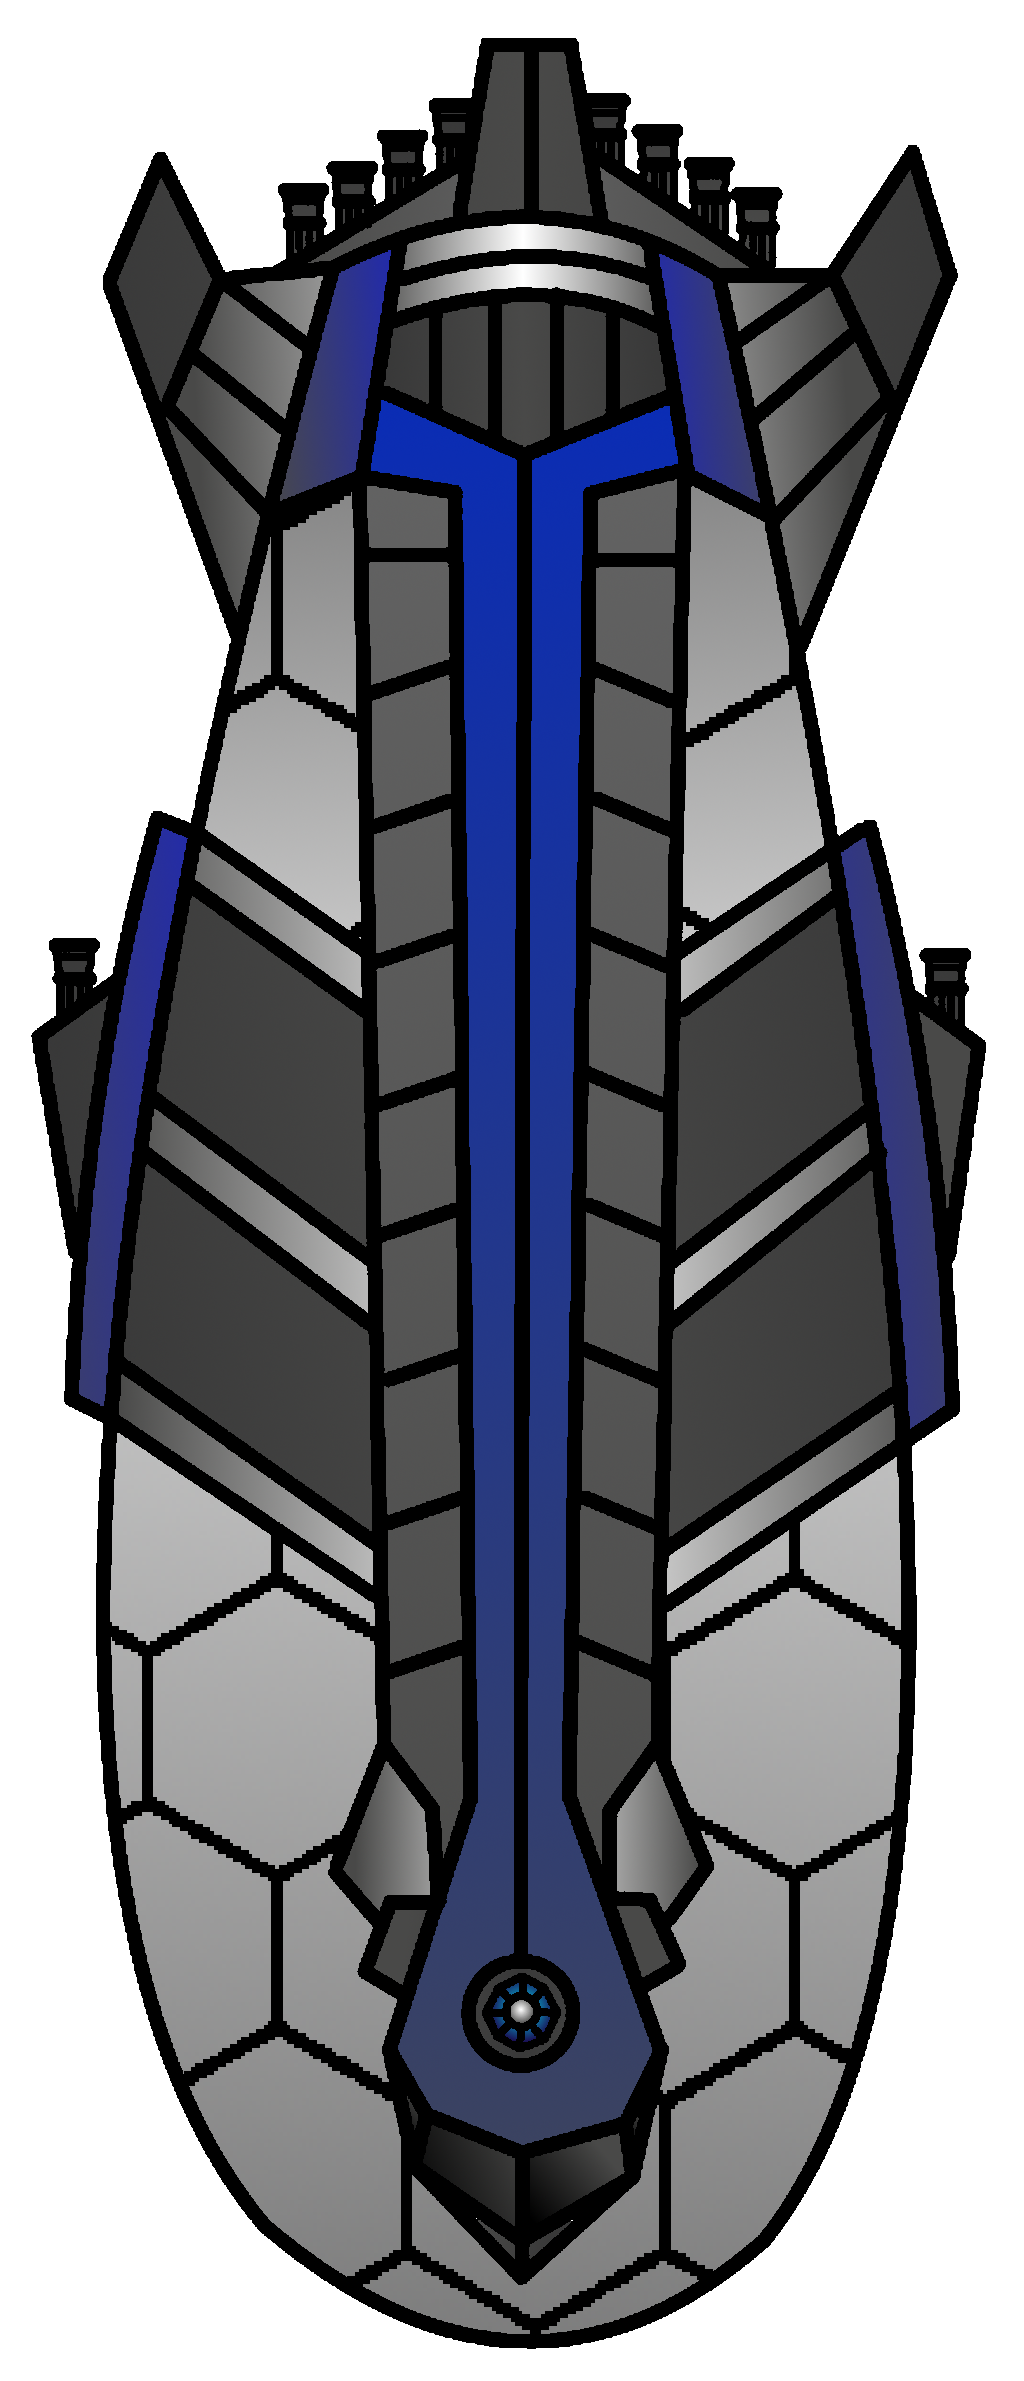
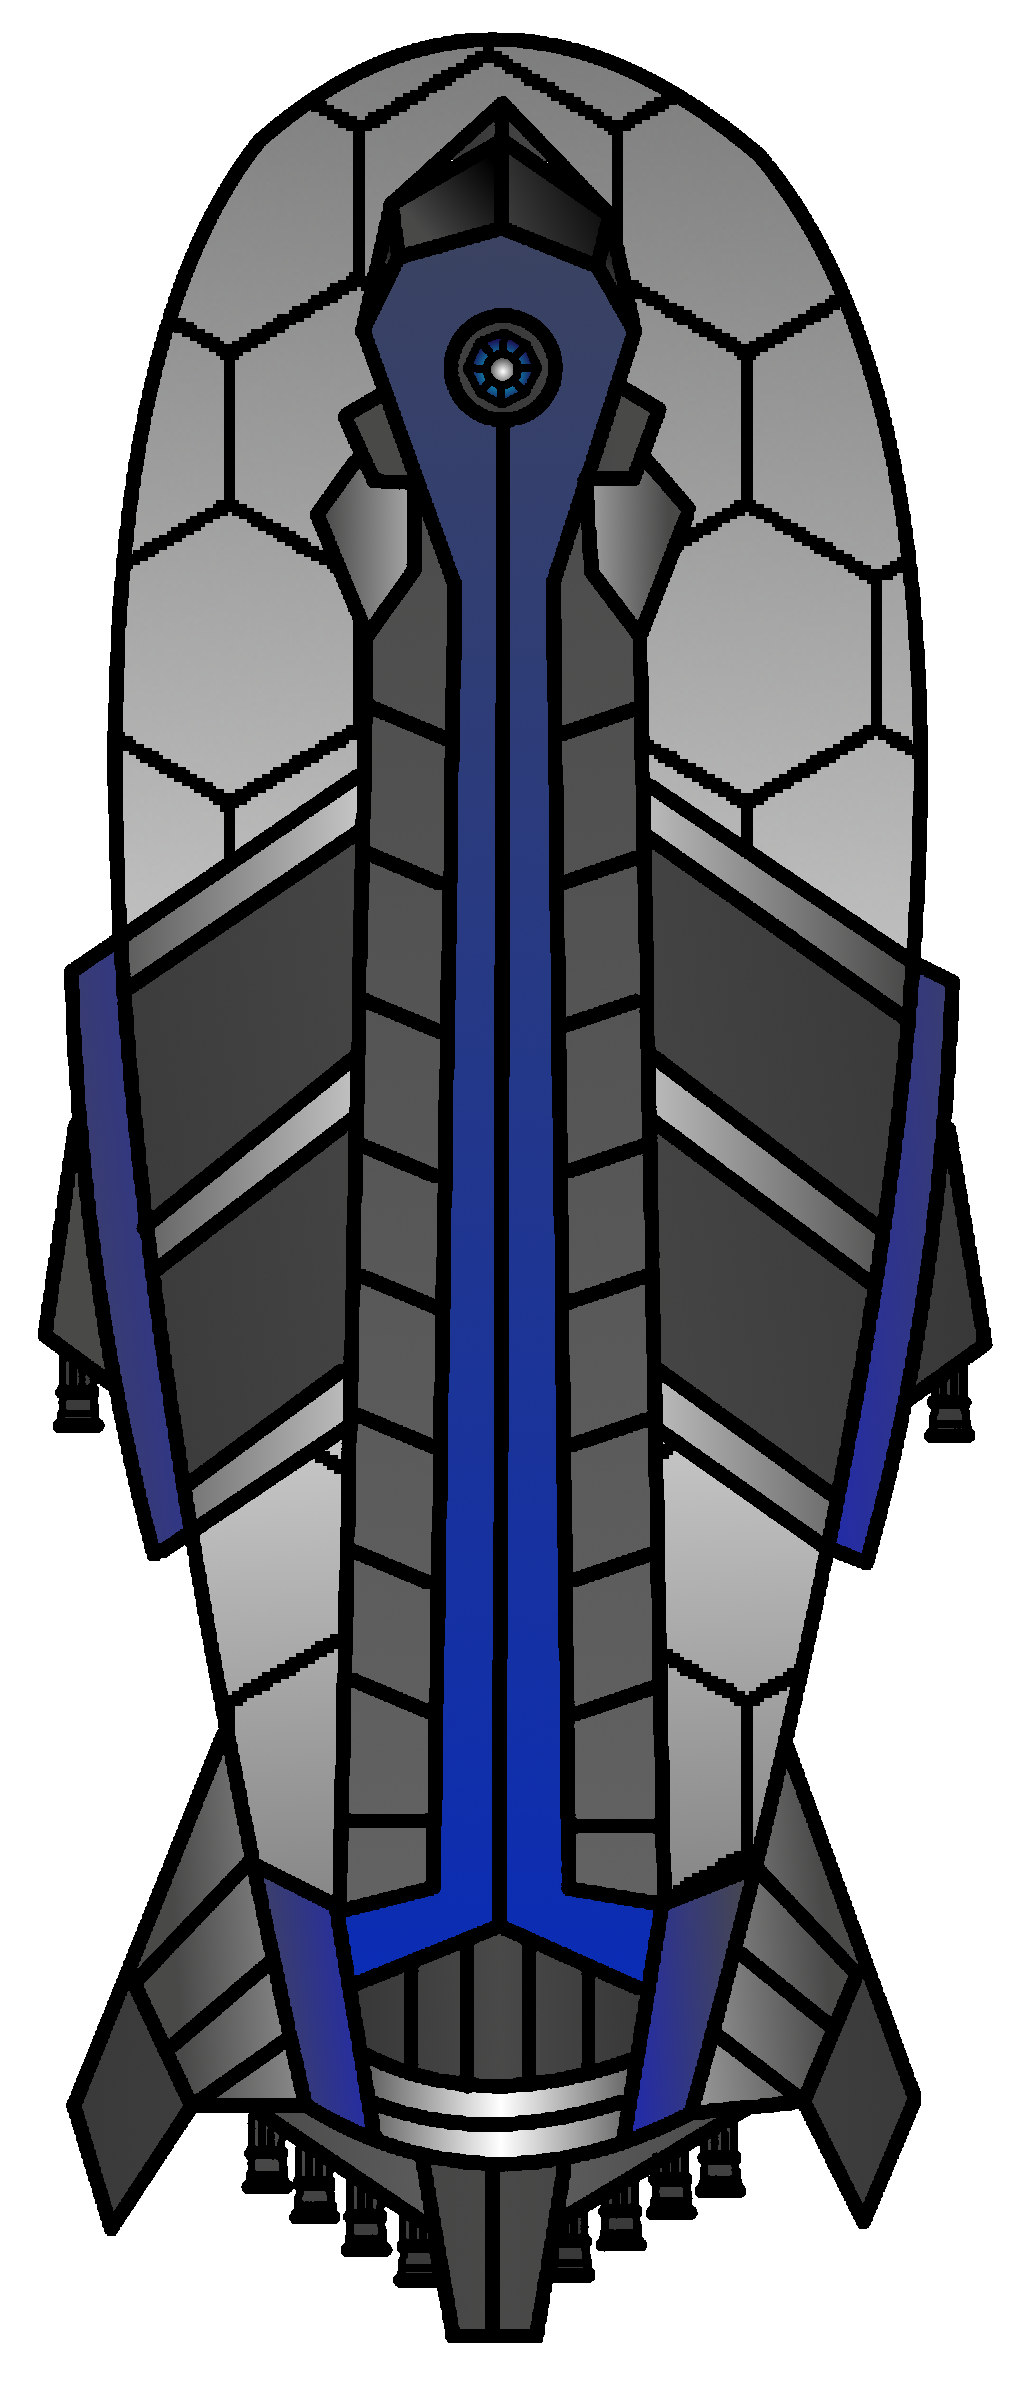
Preliminary Music System and gfx fixes Added a preliminary system to play music throughout the game and fixed the fff boss rotation for easier implementation

diff --git a/scenes/main/SoundManager.cs b/scenes/main/SoundManager.cs
@@ -14,6 +14,8 @@ public partial class SoundManager : Node2D
 	private AudioStreamPlayer _musicPlayer;
 	public AudioStreamPlayer[] SoundPlayerArray;
 
+	private bool _playingLoop;
+
 	public override void _Ready()
 	{
 		_musicPlayer = GetChild<AudioStreamPlayer>(0);
@@ -23,15 +25,13 @@ public partial class SoundManager : Node2D
 			SoundPlayerArray[i - 1] = GetChild<AudioStreamPlayer>(i);
 		}
 		// Add music here by adding it to the next index of the array "tracks" with the string: "res://sfx/music/YOUR_TRACK_HERE" and then updating the array size
-		tracks = new string[8];
-		tracks[0] = "res://sfx/music/End Fight.mp3";
-		tracks[1] = "res://sfx/music/Fight Final.mp3";
-		tracks[2] = "res://sfx/music/Fight.mp3";
-		tracks[3] = "res://sfx/music/Intro.mp3";
-		tracks[4] = "res://sfx/music/Outro.mp3";
-		tracks[5] = "res://sfx/music/Start Fight.mp3";
-		tracks[6] = "res://sfx/music/Workspace Final.mp3";
-		tracks[7] = "res://sfx/music/Workspace.mp3";
+		tracks = new string[6];
+		tracks[0] = "res://sfx/music/2 End Fight.mp3";
+		tracks[1] = "res://sfx/music/2 Fight Final.mp3";
+		tracks[2] = "res://sfx/music/2 Intro.mp3";
+		tracks[3] = "res://sfx/music/2 Outro.mp3";
+		tracks[4] = "res://sfx/music/2 Start Fight.mp3";
+		tracks[5] = "res://sfx/music/2 Workspace Final.mp3";
 		//PlayTrack(1); // For Test Purposes
 		
 		// Add sounds here by adding it to the next index of the array "sounds" with the string: "res://sfx/..." and then updating the array size
@@ -73,11 +73,67 @@ public partial class SoundManager : Node2D
 			
 		_musicPlayer.Play();
 	}
+	// function to play the intro
+	public async void PlayIntro()
+	{
+		_playingLoop = true;
+		PlayTrack(2);
+		while (_playingLoop == true)
+		{
+			await ToSignal(_musicPlayer, AudioStreamPlayer.SignalName.Finished);
+			PlayTrack(5);
+		}
+		//FadeOutMusic(1.0f);
+	}
+
+	// function to play the battle music
 
 	public void FadeOut(int SPindex, float FadeDuration)
 	{
 		Tween tween = CreateTween();
 		tween.TweenProperty(SoundPlayerArray[SPindex], "volume_db", -80.0f, FadeDuration);
 		tween.TweenCallback(Callable.From(() => SoundPlayerArray[SPindex].Stop()));
+	}
+	/*public void FadeOutMusic(float FadeDuration)
+	{
+		GD.Print("what");
+		Tween tween = CreateTween();
+		tween.TweenProperty(_musicPlayer, "volume_db", -80.0f, FadeDuration);
+		tween.TweenCallback(Callable.From(() => _musicPlayer.Stop()));
+	}*/
+
+	public void DisableLoop()
+	{
+		_playingLoop = false;
+	}
+
+	public void StopMusic()
+	{
+		_musicPlayer.Stop();
+	}
+
+	public async void Fight()
+	{
+		await ToSignal(_musicPlayer, AudioStreamPlayer.SignalName.Finished);
+		StopMusic();
+		PlayTrack(4);
+		_playingLoop = true;
+		while (_playingLoop == true)
+		{
+			await ToSignal(_musicPlayer, AudioStreamPlayer.SignalName.Finished);
+			PlayTrack(1);
+		}
+	}
+	public async void Menu()
+	{
+		await ToSignal(_musicPlayer, AudioStreamPlayer.SignalName.Finished);
+		StopMusic();
+		PlayTrack(0);
+		_playingLoop = true;
+		while (_playingLoop == true)
+		{
+			await ToSignal(_musicPlayer, AudioStreamPlayer.SignalName.Finished);
+			PlayTrack(5);
+		}
 	}
 }

diff --git a/scenes/main/Game.cs b/scenes/main/Game.cs
@@ -20,6 +20,7 @@ public partial class Game : Node2D
 	private PackedScene _asteroidScene;
 	private Array<PackedScene> _enemyScenes = [];
 
+	private Node _soundManager;
 	private int _enemiesSpawned = 0;
 	private int _enemyCount = 0;
 
@@ -29,6 +30,7 @@ public partial class Game : Node2D
 
 	public override void _Ready()
 	{
+		_soundManager = GetNode("/root/SoundManager");
 		_rng = new();
 		_rng.Randomize();
 
@@ -122,6 +124,7 @@ public partial class Game : Node2D
 	public async void OpenBuildMenuAfterDelay(float delay)
 	{
 		GD.Print("Changing scene...");
+		_soundManager.Call("Menu");
 		await ToSignal(GetTree().CreateTimer(delay), SceneTreeTimer.SignalName.Timeout);
 		GetTree().ChangeSceneToFile("res://scenes/player/BuildMenu.tscn");
 	}

diff --git a/scenes/ui/TitleScreen.cs b/scenes/ui/TitleScreen.cs
@@ -4,7 +4,8 @@ using System;
 public partial class TitleScreen : VBoxContainer
 {
 	private Node _soundManager;
-	public override void _Ready()
+
+	public override async void _Ready()
 	{
 		_soundManager = GetNode("/root/SoundManager");
 
@@ -30,6 +31,7 @@ public partial class TitleScreen : VBoxContainer
 			_soundManager.Call("PlaySound", 0, 0);
 			GetTree().Quit();
 		};
+		_soundManager.Call("PlayIntro");
 	}
 	
 	public override void _UnhandledInput(InputEvent @event)
@@ -38,6 +40,7 @@ public partial class TitleScreen : VBoxContainer
 			&& (@event is InputEventKey || @event is InputEventMouseButton)
 			&& Visible)
 		{
+			_soundManager.Call("Fight");
 			GetTree().ChangeSceneToFile("res://scenes/main/game.tscn");
 		}
 	}
